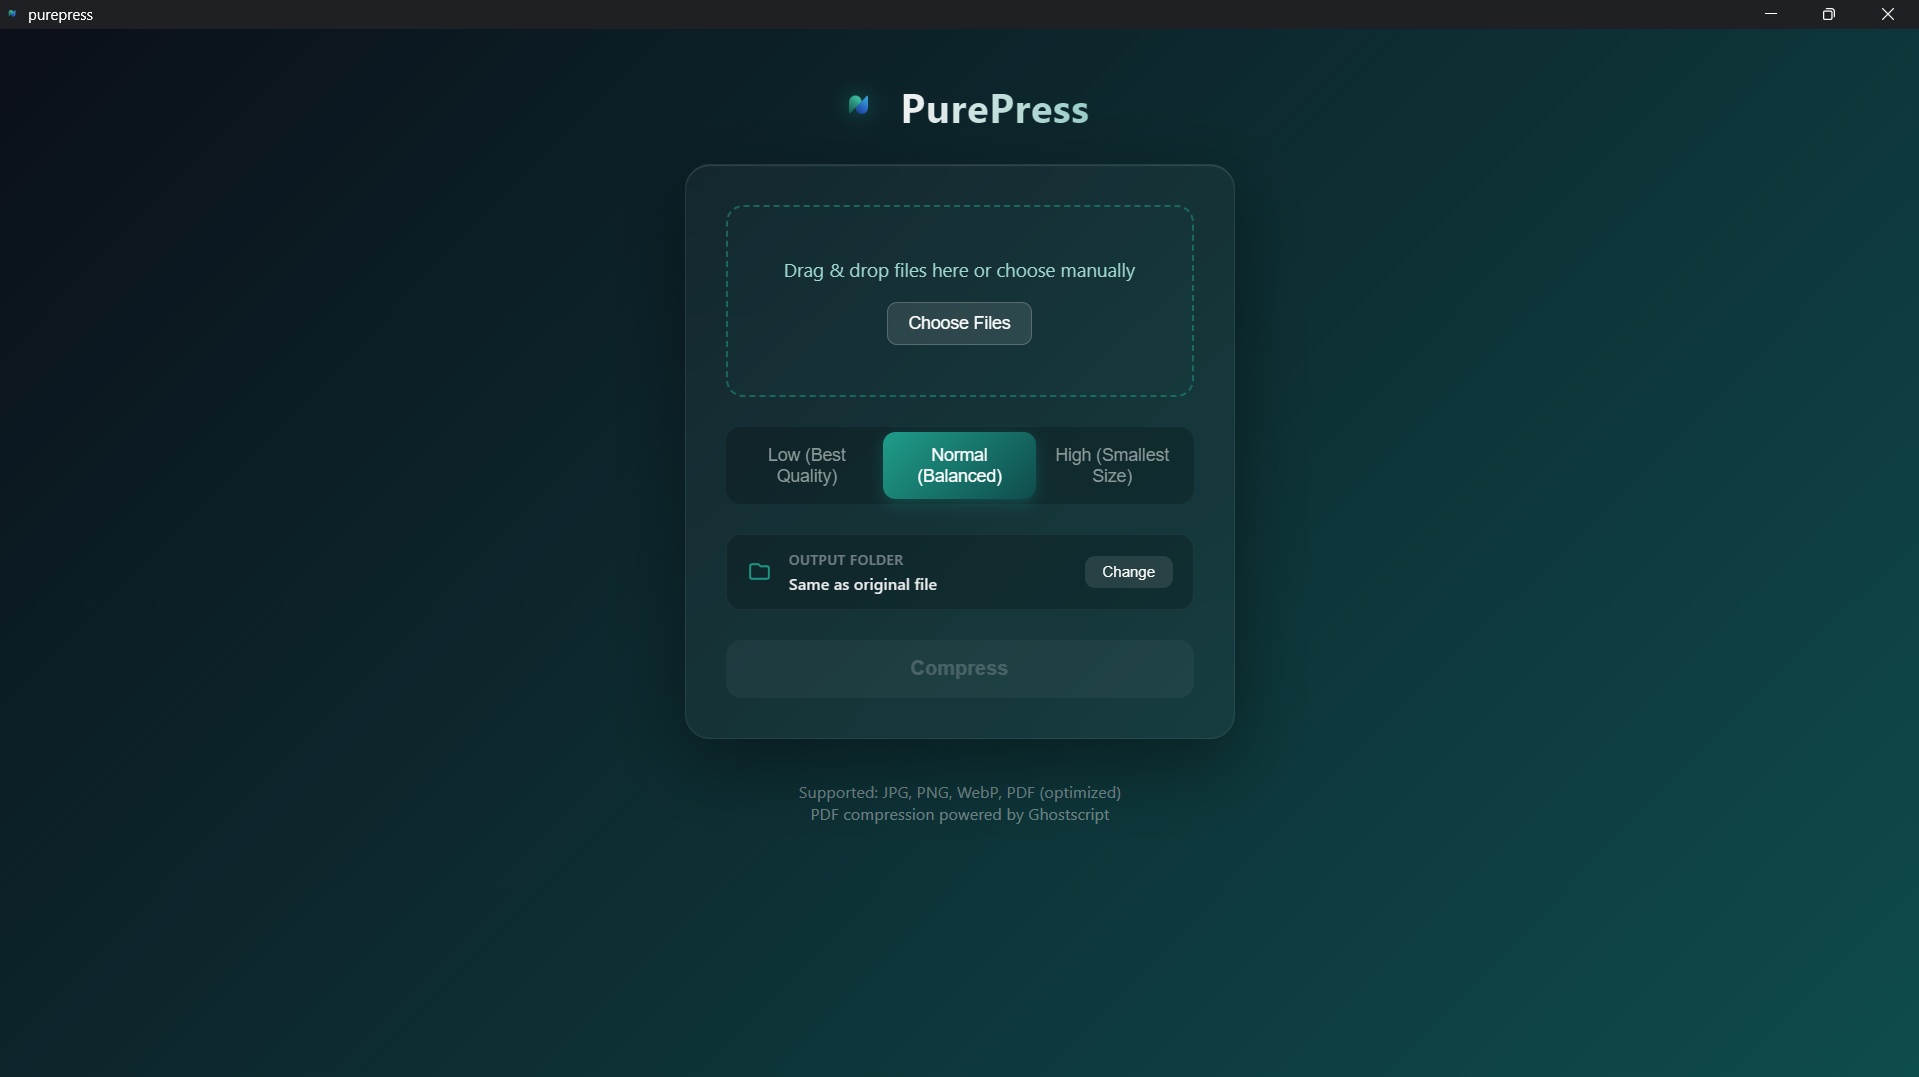
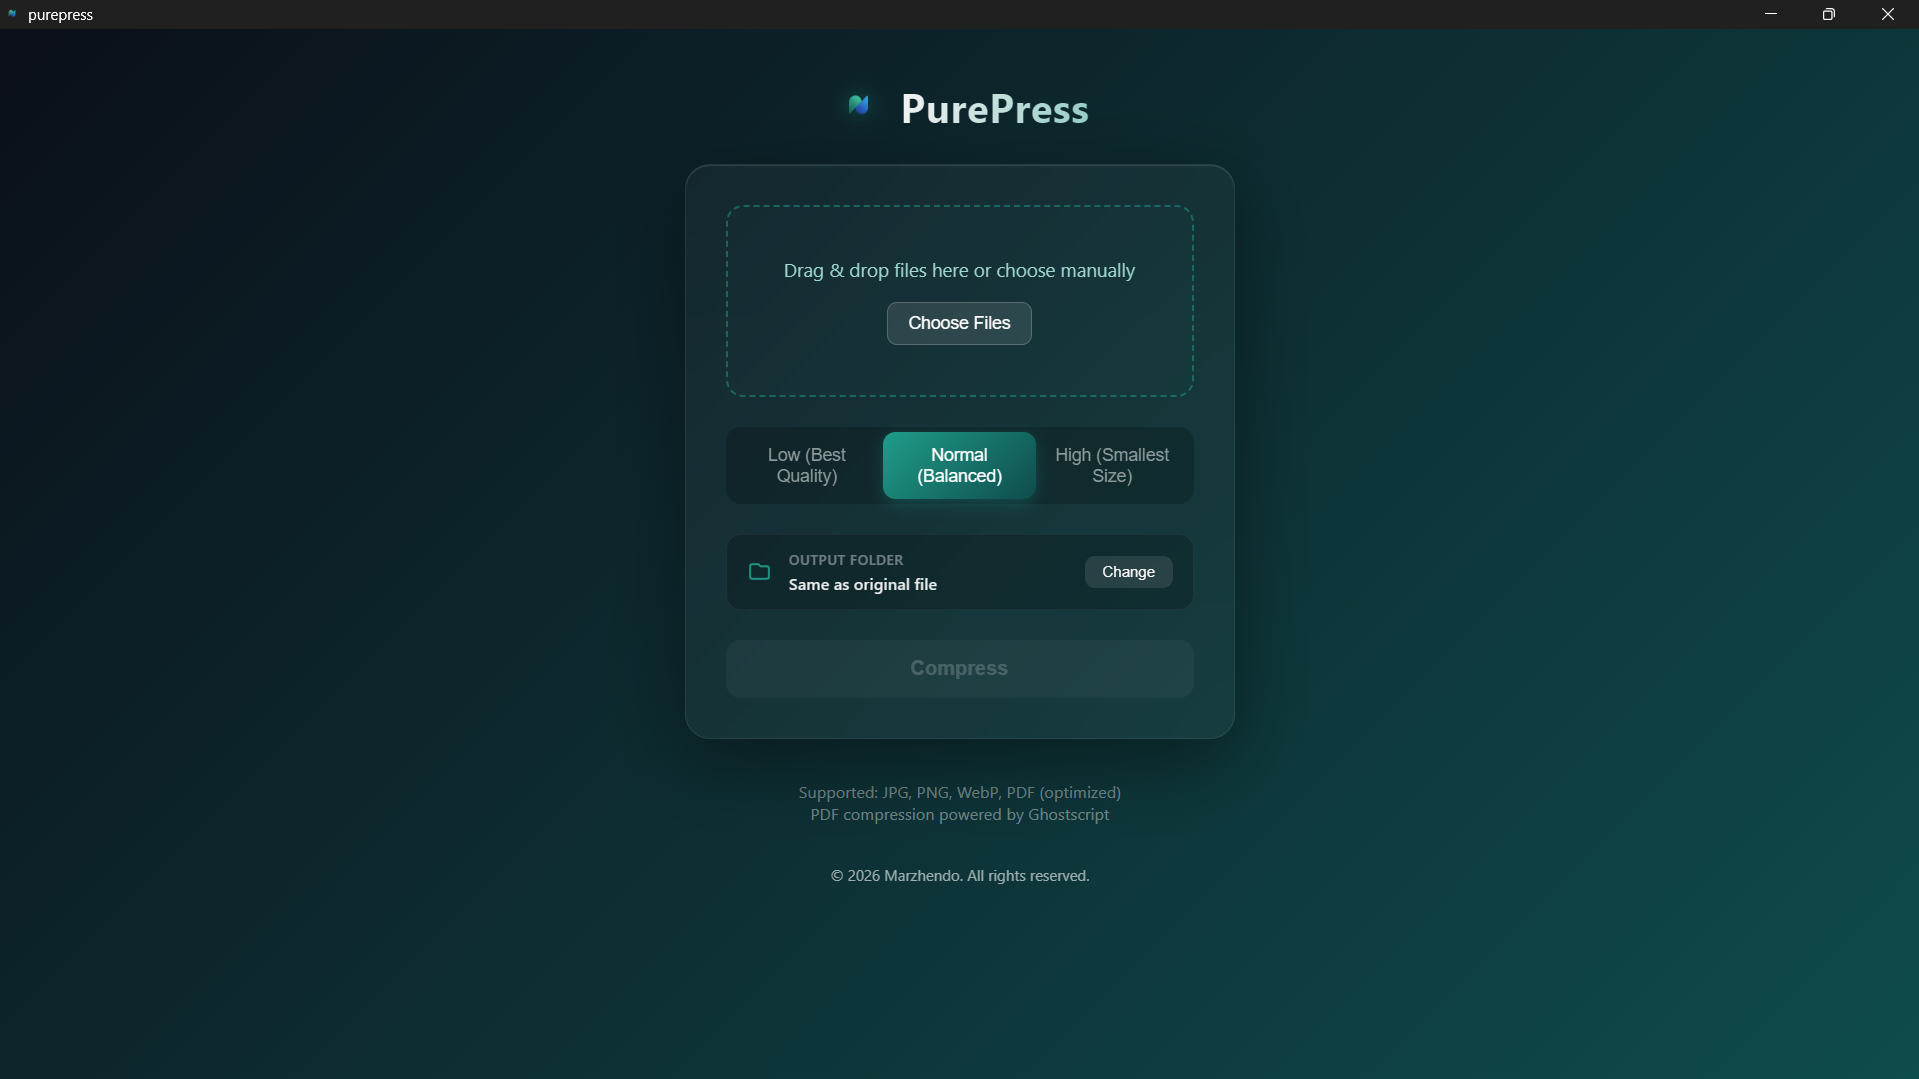
add copyright on the software

diff --git a/purepress/frontend/src/App.css b/purepress/frontend/src/App.css
@@ -519,3 +519,15 @@ h1 {
     transform: rotate(360deg);
   }
 }
+
+.footer {
+  font-size: 12px;
+  opacity: 0.6;
+  text-align: center;
+  margin-top: 20px;
+  transition: opacity 0.3s ease;
+}
+
+.footer:hover {
+  opacity: 0.8;
+}

diff --git a/purepress/frontend/src/App.jsx b/purepress/frontend/src/App.jsx
@@ -357,6 +357,10 @@ function App() {
         <br />
         PDF compression powered by Ghostscript
       </p>
+
+      <div className="footer">
+        &copy; 2026 Marzhendo. All rights reserved.
+      </div>
     </div>
   );
 }
